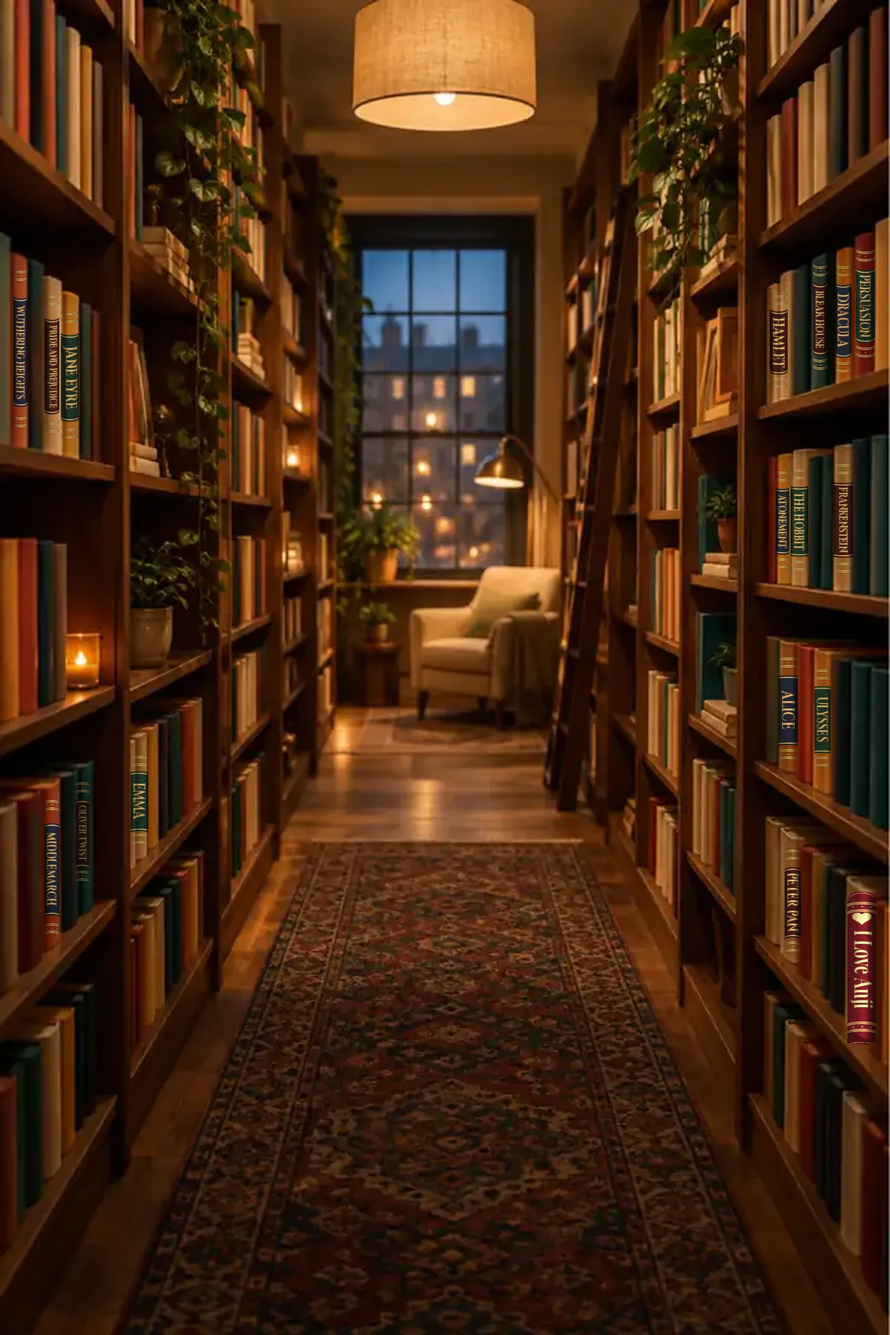
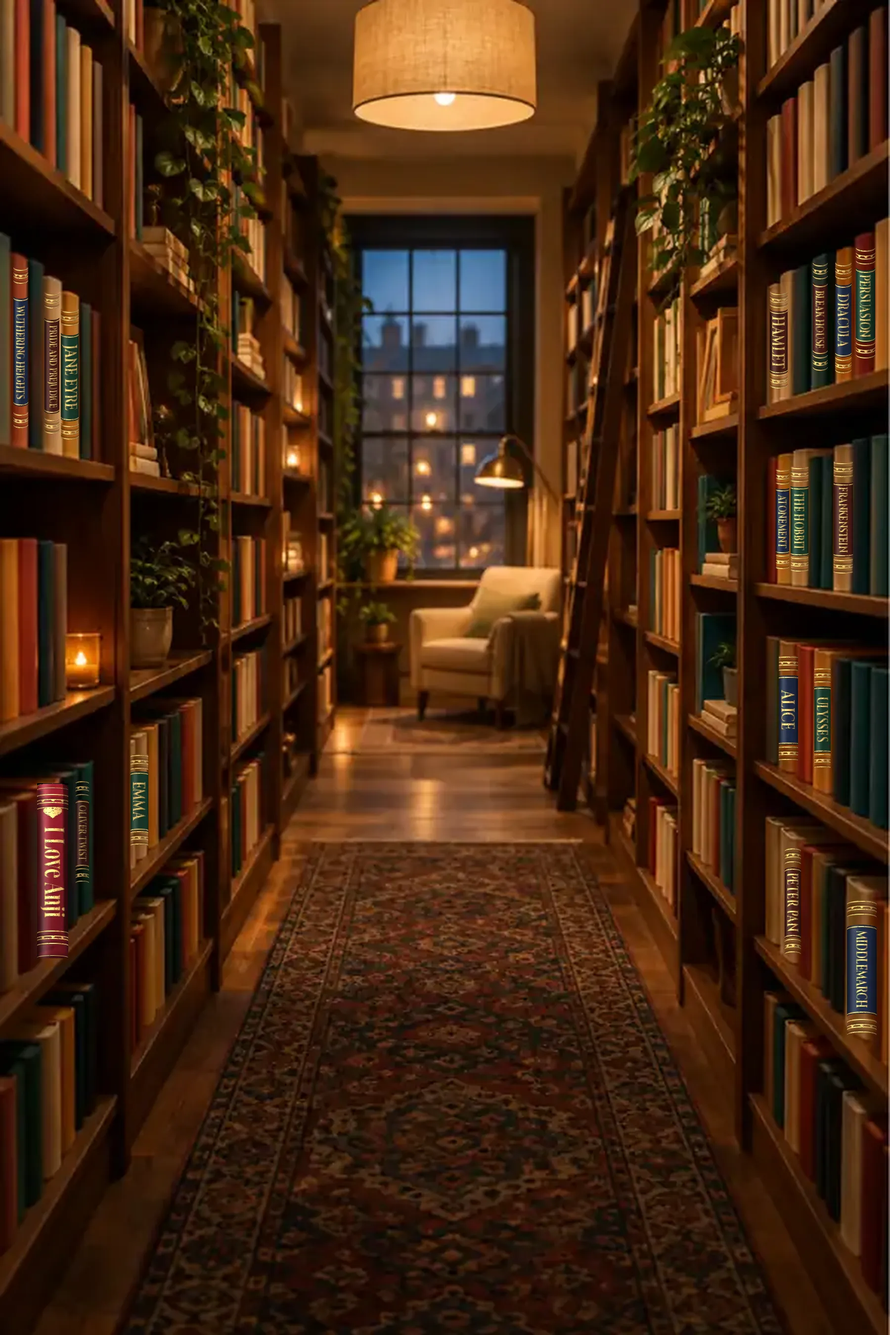
비전보드 책등 v3(도드라진 띠·가죽 결·금박 광택과 닳음·찍힘 그림자), 왼쪽 아래 빨간 책을 두껍게 버건디 가죽 'I Love Anji'(오른쪽 책은 MIDDLEMARCH)·육각형 분류 성인/중학생 두 가지, 글씨는 본문 글꼴
Claude-Session: https://claude.ai/code/session_013v9YWfuVk74Go5gSgEZhrT

diff --git a/app/source.html b/app/source.html
@@ -1045,6 +1045,8 @@ form{display:flex;flex-direction:column;gap:12px}
 .shplq small{font:700 9px/1 'Noto Serif KR',serif;letter-spacing:.04em;color:#1C1306;text-shadow:0 1px 0 rgba(255,236,176,.35)}
 @media (min-width:721px){.shplq{padding:11px 22px 10px}.shplq b{font-size:19px}.shplq small{font-size:10px}}
 .mysh>h3{display:flex;align-items:center}
+/* 육각형 독서 분류 글씨: 주변과 같은 본문 글꼴(타자기 글씨 아님), 갈색 보조 글씨 */
+html body .sec>h3 small.hxlab{font-family:var(--f-body)!important;font-weight:500!important;font-size:13px!important;letter-spacing:0!important;-webkit-text-fill-color:#8A6A3E!important;color:#8A6A3E!important;margin-left:6px}
 /* 책 종류 명패(소설·시/에세이…)도 같은 황동 */
 html body .bshf .bnl{background:var(--brass)!important;box-shadow:var(--brass-sh)!important;color:#1C1306!important;text-shadow:var(--engrave)!important;border-radius:1.5px!important;font-family:'Noto Sans KR',sans-serif;font-weight:800}
 /* 독서 화면 소주제 명판도 같은 황동 */
@@ -4061,7 +4063,7 @@ function hexEvenTxt(h){const empty=AX.map((a,k)=>h.r[k]===0?a[1]:null).filter(Bo
   return `여섯 분야 중 ${h.even}개를 고르게 읽고 있어요.`+(empty.length?` 아직 비어 있는 분야: ${empty.join(', ')}.`:` 다음 책은 '${AX[lo][1]}'(${AX[lo][2]})에서 골라 보면 육각형이 고르게 커져요.`)}
 function hexMeHTML(){
   const h=hexScores();
-  return `<div class="sec" style="margin-top:16px"><h3>육각형 독서 <small class="hint">${esc(h.lab)}</small></h3>
+  return `<div class="sec" style="margin-top:16px"><h3>육각형 독서 <small class="hint hxlab">${esc(h.lab)}</small></h3>
     <details class="hxdef"><summary><b>육각형 독서란?</b><span>읽은 책의 분야와 깊이를 보여 줘요</span></summary><p>능력이나 인성 점수가 아니에요. 책 한 권은 그 분야에 1점, 인상 깊은 문장을 남기면 1.5점, 그 책으로 논술이나 구술까지 하면 2점이에요. ${h.yr?'1년 동안':'학년마다'} 분야별 목표를 채우면 꼭짓점이 가득 차요.${hxWho()==='adult'?' 성인은 한 달 3권꼴(1년 36점)로, 문학보다 인문·사회 비중을 조금 높게 잡았어요.':''}</p>
       <ul class="hxax">${AX.map((a,k)=>`<li><b>${a[1]}</b>${a[2]}<small>${h.p[k]} / ${h.t[k]}</small></li>`).join('')}</ul></details>
     <div class="hxme"><button class="hxb" data-act="mybooks" aria-label="육각형 독서 자세히 보기">${radarSVG(h.p,240,true,h.t)}</button>
@@ -4508,7 +4510,7 @@ function hexBooks(){
 function hexScores(g){const who=hxWho();const yr=!g&&who!=='mid';g=g||hxGrade();const p=[0,0,0,0,0,0];const bs=hexBooks();let n=0,un=0;
   bs.forEach(b=>{if(!yr&&g!=='all'&&b.g!==g)return;if(b.nc)return;const m=b.main;if(!(m>=0&&m<6)){un++;return}n++;const d=b.dp||1;const sub=Number.isInteger(b.sub)&&b.sub>=0&&b.sub<6&&b.sub!==m;p[m]+=(sub?0.7:1)*d;if(sub)p[b.sub]+=0.3*d});
   const t=(yr&&who==='adult'?HXA:HXT).map(x=>g==='all'?x*3:x);const q=p.map(v=>Math.round(v*10)/10);const r=q.map((v,k)=>v/t[k]);
-  const lab=yr?(who==='adult'?'성인 · '+gradeTxt(S.me)+' · 1년 목표':'학생 · '+(gradeTxt(S.me)||'기타')+' · 1년 목표'):'학생 · '+g+' 학년 목표';
+  const lab=who==='adult'?'성인 · 1년 목표':'중학생 · '+(yr?'1년':g==='all'?'3년':'학년')+' 목표'; // 11-28 분류는 성인·중학생 두 가지
   return {p:q,t,r,n,un,all:bs.length,even:r.filter(x=>x>=0.5).length,g:yr?(who==='adult'?'성인':'학생'):g,yr,lab:lab+' '+t.reduce((a,b)=>a+b,0)+'점'}}
 const hxLo=h=>h.r.indexOf(Math.min(...h.r));
 /* 육각형 독서 고급판(2026-11-26 사용자 지시, Figma 13): 크림 원판 위 금박 테두리 육각형, 4단 눈금, 초록 보석 같은 값 면 + 금빛 테두리·은은한 빛, 꼭짓점은 금 테 진주, 분야 이름은 명조 */

diff --git a/tests/oral/grades.py b/tests/oral/grades.py
@@ -67,12 +67,12 @@ with sync_playwright() as p:
     ok('서가: 도서관 분류(KDC 325)가 있으면 그 칸(경제/경영)', r[3] == '경제/경영', r)
     ok('서가: ISBN 분류가 AI가 짐작한 칸보다 먼저, 회원이 고른 칸은 존중', r[4] == '소설' and r[5] == '자기계발', r)
     h = pgc.evaluate("(()=>{const h=hexScores();return {lab:h.lab,t:h.t}})()")
-    ok('육각형: 중학생은 학년 목표 30점', h['lab'] == '학생 · 중1 학년 목표 30점' and sum(h['t']) == 30, h)
+    ok('육각형: 중학생은 학년 목표 30점', h['lab'] == '중학생 · 학년 목표 30점' and sum(h['t']) == 30, h)
     pgc.close()
     pga = br.new_page(viewport={'width': 390, 'height': 844}); pga.add_init_script('window.__002TEST=o=>{Object.assign(window,o)}')
     pga.goto(WEB + '/'); pga.evaluate("s=>localStorage.setItem('002.session',JSON.stringify(s))", S['grrd']); pga.goto(WEB + '/'); pga.wait_for_selector('.who', timeout=20000); time.sleep(1)
     h = pga.evaluate("(()=>{const h=hexScores();return {lab:h.lab,t:h.t}})()")
-    ok('육각형: 성인은 1년 목표 36점(비문학 비중↑)', h['lab'] == '성인 · 독서회원 · 1년 목표 36점' and h['t'] == [8, 7, 7, 5, 5, 4], h)
+    ok('육각형: 성인은 1년 목표 36점(비문학 비중↑)', h['lab'] == '성인 · 1년 목표 36점' and h['t'] == [8, 7, 7, 5, 5, 4], h)
     pga.close()
     s1, t1 = start_alerts('gra1')
     ok('학생: 책 시작하면 친구에게 시작 알림', any('시작 알림' in x for x in s1) and '알렸어요' in t1, (len(s1), t1))
